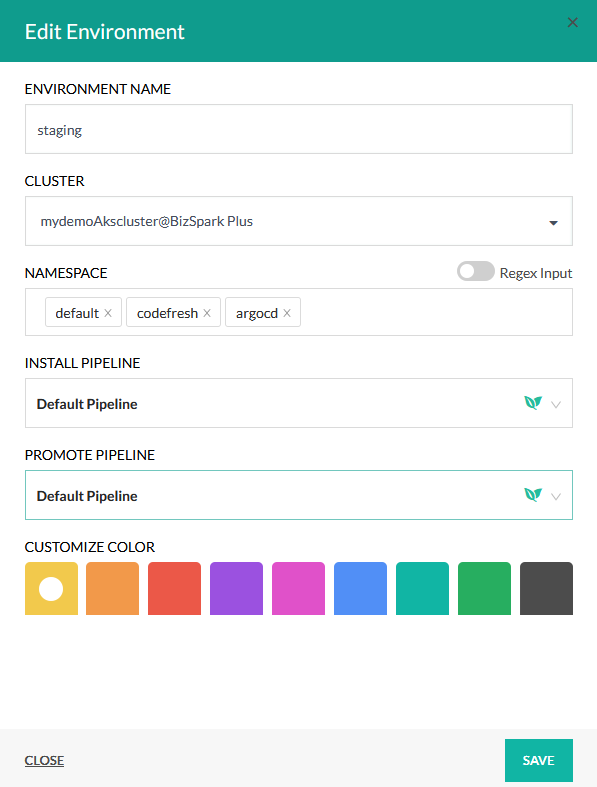
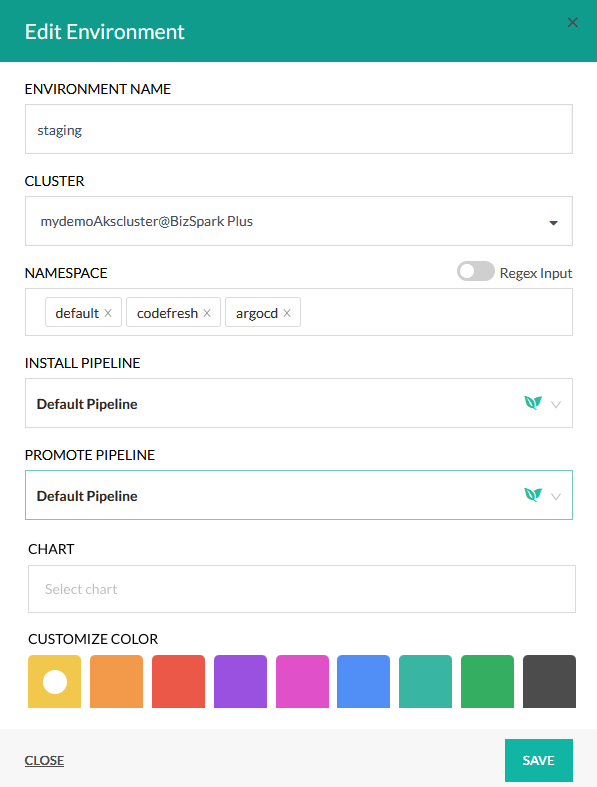
Update helm environment topic with chart
Added new chart selection option Helm definition and updated Helm environment image

Changed region(s): [[0.0302, 0.6709, 0.9648, 0.9149]]

diff --git a/_docs/new-helm/helm-environment-promotion.md b/_docs/new-helm/helm-environment-promotion.md
@@ -96,6 +96,7 @@ For each environment you can select
 * One or more namespaces that define this environment (You can even toggle the switch for a regex match)
 * A custom pipeline that will be used when a Helm release is installed for the first time in this column
 * A custom pipeline that will be used when a Helm release is dragged in this column (promoted from another column)
+* Optional. One or more charts to use for the environment. Defining charts for the environment saves you from having to search through all the charts in your Helm repository. When you install an application from the install graphical dialog, only the selected chart(s) are displayed.
 * A presentation color to easily identify the environment on the board (For example, a "production" environment should have a red color)
 
 You can also select no namespace at all. In that case the column will show Helm releases for all namespaces in that cluster.
@@ -256,7 +257,7 @@ max-width="80%"
 1. The environment details on the environment header are:
 * The edit button to change again the options for this column (shown on mouse hover)
 * The delete button to remove this column from the board (shown on mouse hover)
-* The plus button to install a new chart
+* The plus button to install a new chart. If you selected one or more charts when you defined your environment, only the selected charts are displayed.
 * A numeric value that shows how many releases are contained on this environment
 1. The delete button allows you to uninstall a Helm release for an environment
 
